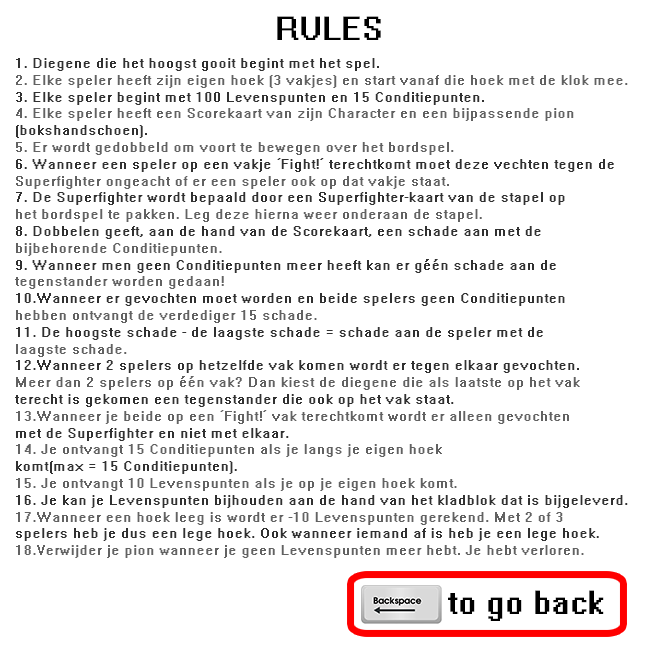
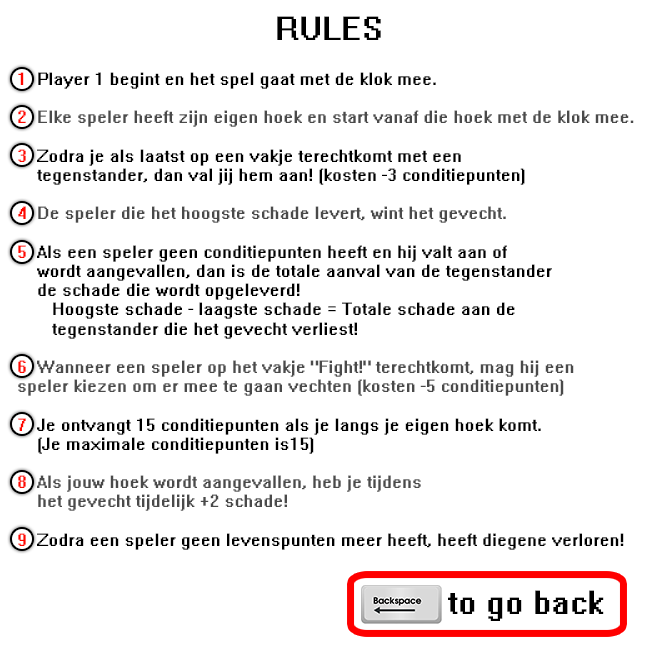
RULES CHANGED

Changed region(s): [[0.0, 0.0923, 0.9538, 0.8615]]

diff --git a/PythonApplication1alex and jesse/PythonApplication1/Game.py b/PythonApplication1alex and jesse/PythonApplication1/Game.py
@@ -162,7 +162,8 @@ while not crashed:
         glove_update(button, screen_index)                         #hier word button meegegeven aan glove_update
  
     elif screen_index == 1:#rules
-
+        size = width, height = 650, 650
+        gameDisplay = pygame.display.set_mode(size)
         screen, rect,screen_index, menu_index, crashed = \
         RulesScreen(screenlist, rectlist, screen_index, menu_index, crashed, b)
         screen_update(screen, rect)
